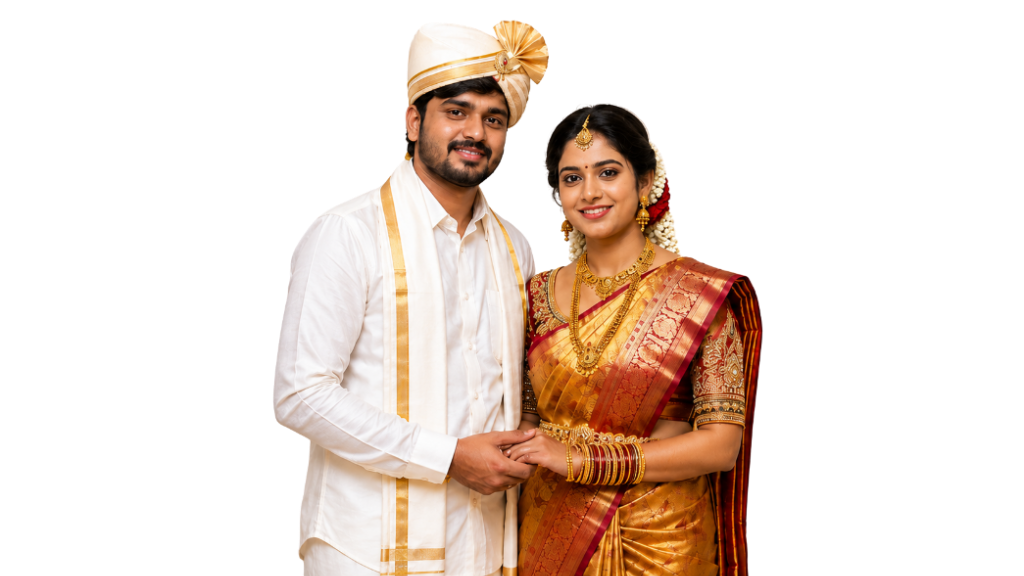
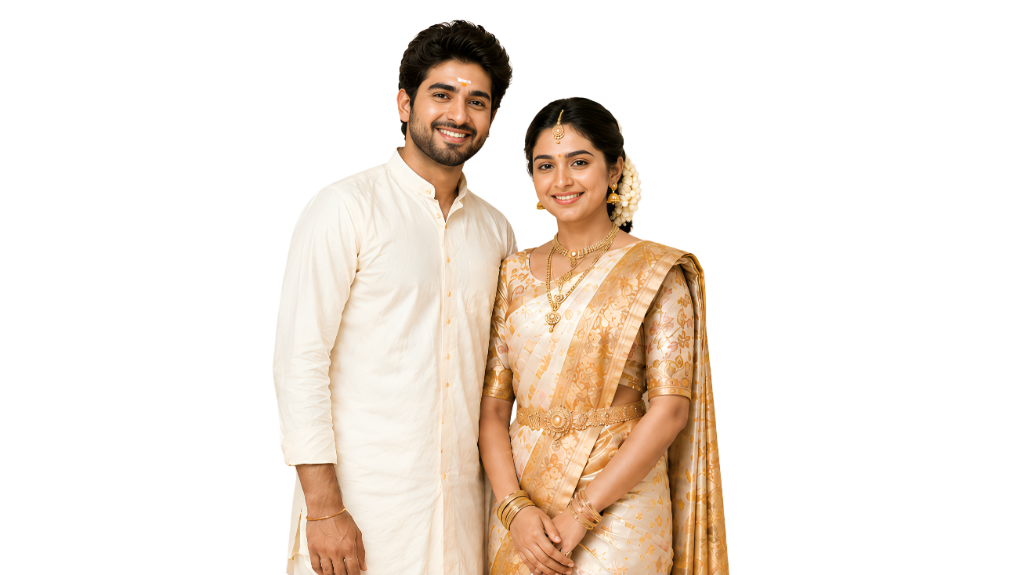
Add files via upload

Changed region(s): [[0.25, 0.0296, 0.75, 1.0]]

diff --git a/index.html b/index.html
@@ -8,10 +8,10 @@
     <meta name="viewport" content="width=device-width, initial-scale=1.0">
     <title>Kalyan Matrimony - Duplicate Clone</title>
     <meta name="description" content="Duplicate replica of Kalyan Matrimony home page. Find your best life partner.">
-    <!-- Google Fonts for premium typography and Kannada support -->
+    <!-- Google Fonts for premium typography and Tamil support -->
     <link rel="preconnect" href="https://fonts.googleapis.com">
     <link rel="preconnect" href="https://fonts.gstatic.com" crossorigin>
-    <link href="https://fonts.googleapis.com/css2?family=Outfit:wght@300;400;500;600;700;800&family=Noto+Sans+Kannada:wght@400;600;700;800&display=swap" rel="stylesheet">
+    <link href="https://fonts.googleapis.com/css2?family=Outfit:wght@300;400;500;600;700;800&family=Noto+Sans+Tamil:wght@400;600;700;800&display=swap" rel="stylesheet">
     
     <style>
         /* CSS reset & variables */
@@ -27,7 +27,7 @@
             --bg-cream: #fff9f5;
             --border-cream: #c99b9b;
             --font-family-english: 'Outfit', sans-serif;
-            --font-family-kannada: 'Noto Sans Kannada', 'Outfit', sans-serif;
+            --font-family-tamil: 'Noto Sans Tamil', 'Outfit', sans-serif;
             --hero-bg-color: #f6ebd9; /* Exact matches the background color of the new patterned couple image */
         }
 
@@ -167,7 +167,7 @@
         }
 
         .headline-ta {
-            font-family: var(--font-family-kannada);
+            font-family: var(--font-family-tamil);
             font-size: 18px;
             font-weight: 700;
             line-height: 1.5;
@@ -246,7 +246,7 @@
             height: 100%;
             width: 100%;
             object-fit: cover; 
-            object-position: 62% bottom; /* Shifted left to reduce left side gap and balance layout */
+            object-position: center bottom; /* Aligned center */
             display: block; 
             position: relative;
             z-index: 1; /* Renders in front of glow background */
@@ -715,7 +715,7 @@
             }
             .hero-image-col img {
                 object-fit: cover; /* Zooms in on the center of PNG to make couple larger and remove gaps */
-                object-position: 60% top; /* Shifted slightly left to balance side gaps on mobile */
+                object-position: center top; /* Aligned center on mobile */
             }
             .hero-form-col {
                 width: 100%;
@@ -930,14 +930,14 @@
     <!-- Hero Text Section (Center-aligned above the hero banner) -->
     <section class="hero-text-section">
         <div class="hero-text-container">
-            <div class="pill-label">Matrimony For Kannada</div>
+            <div class="pill-label">Matrimony For Telugu</div>
             
             <h1 class="headline-en">
                 GET YOUR BEST LIFE PARTNER ON <span class="red-brand">KALYAN MATRIMONY</span>
             </h1>
             
             <p class="headline-ta">
-                ನಿಮಗೆ ಉತ್ತಮ ಜೀವನ ಸಂಗಾತಿ ಬೇಕೇ? <span class="red-brand">ಕಲ್ಯಾಣ್ ಮ್ಯಾಟ್ರಿಮೋನಿನಲ್ಲಿ</span> ನೋಂದಣಿ ಮಾಡಿ.
+                మీకు మంచి జీవిత భాగస్వామి దొరకాలా? <span class="red-brand">కల్యాణ్ మ్యాట్రిమోనీలో</span> నమోదు చేసుకోండి.
             </p>
         </div>
     </section>